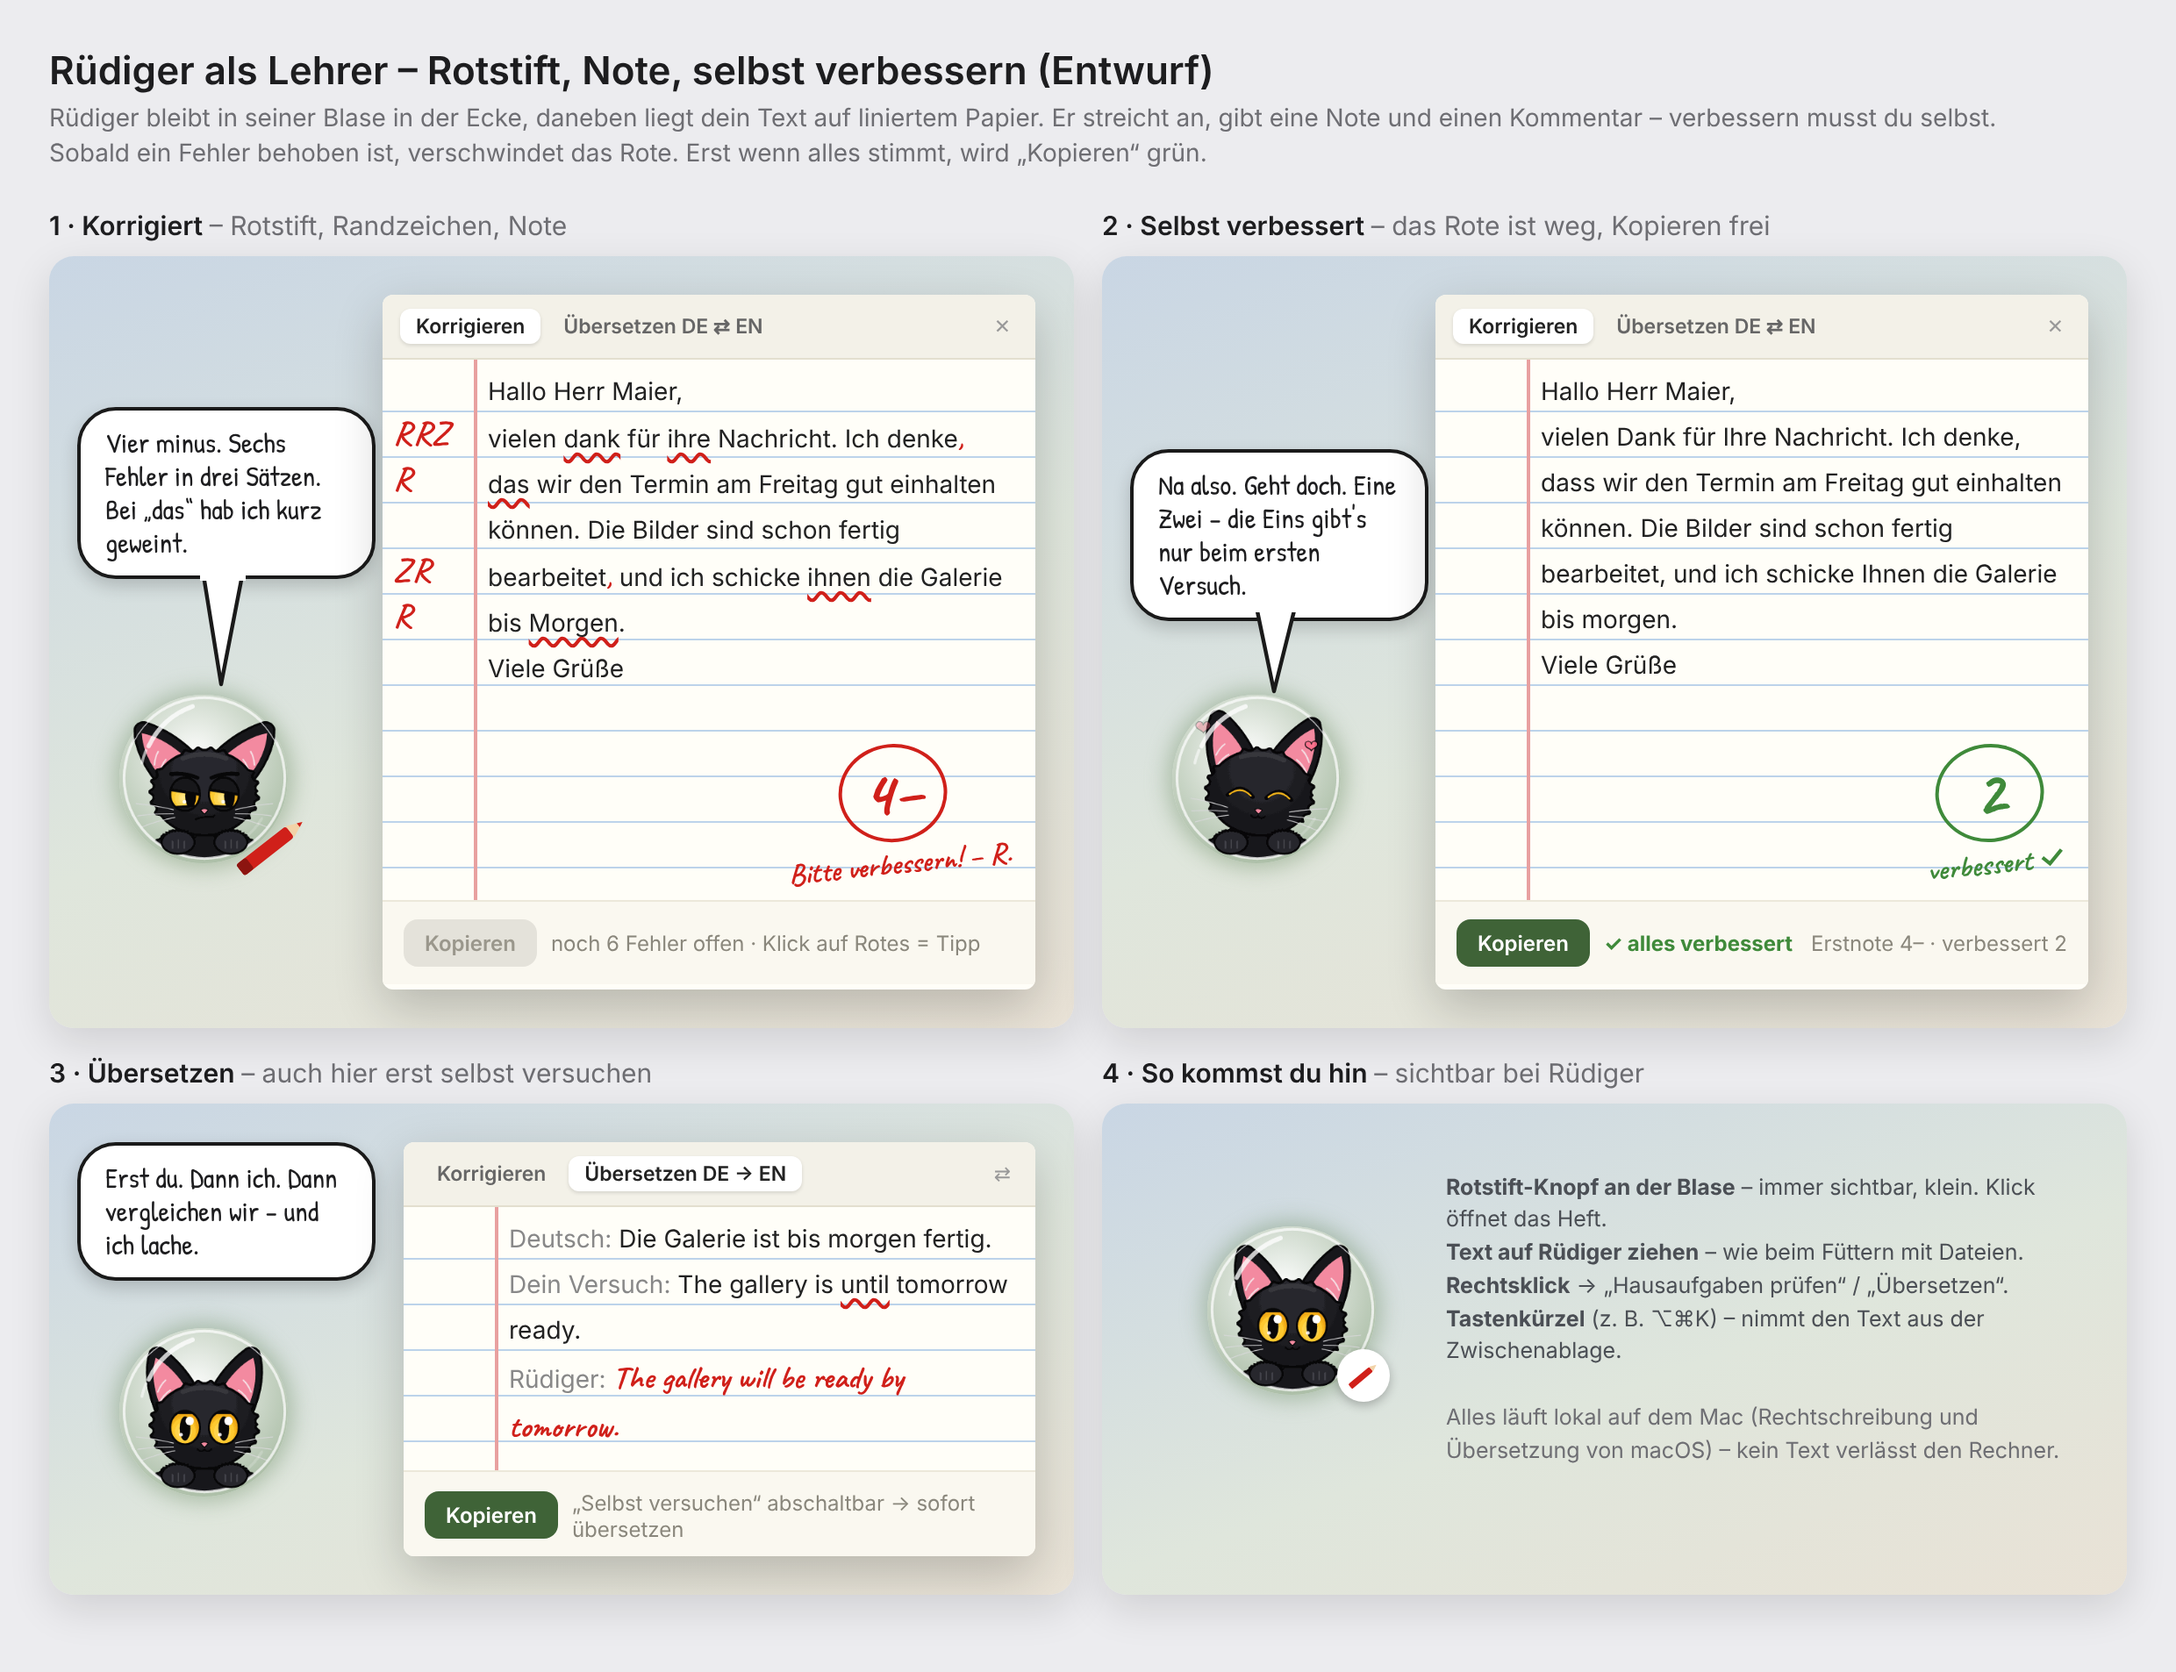
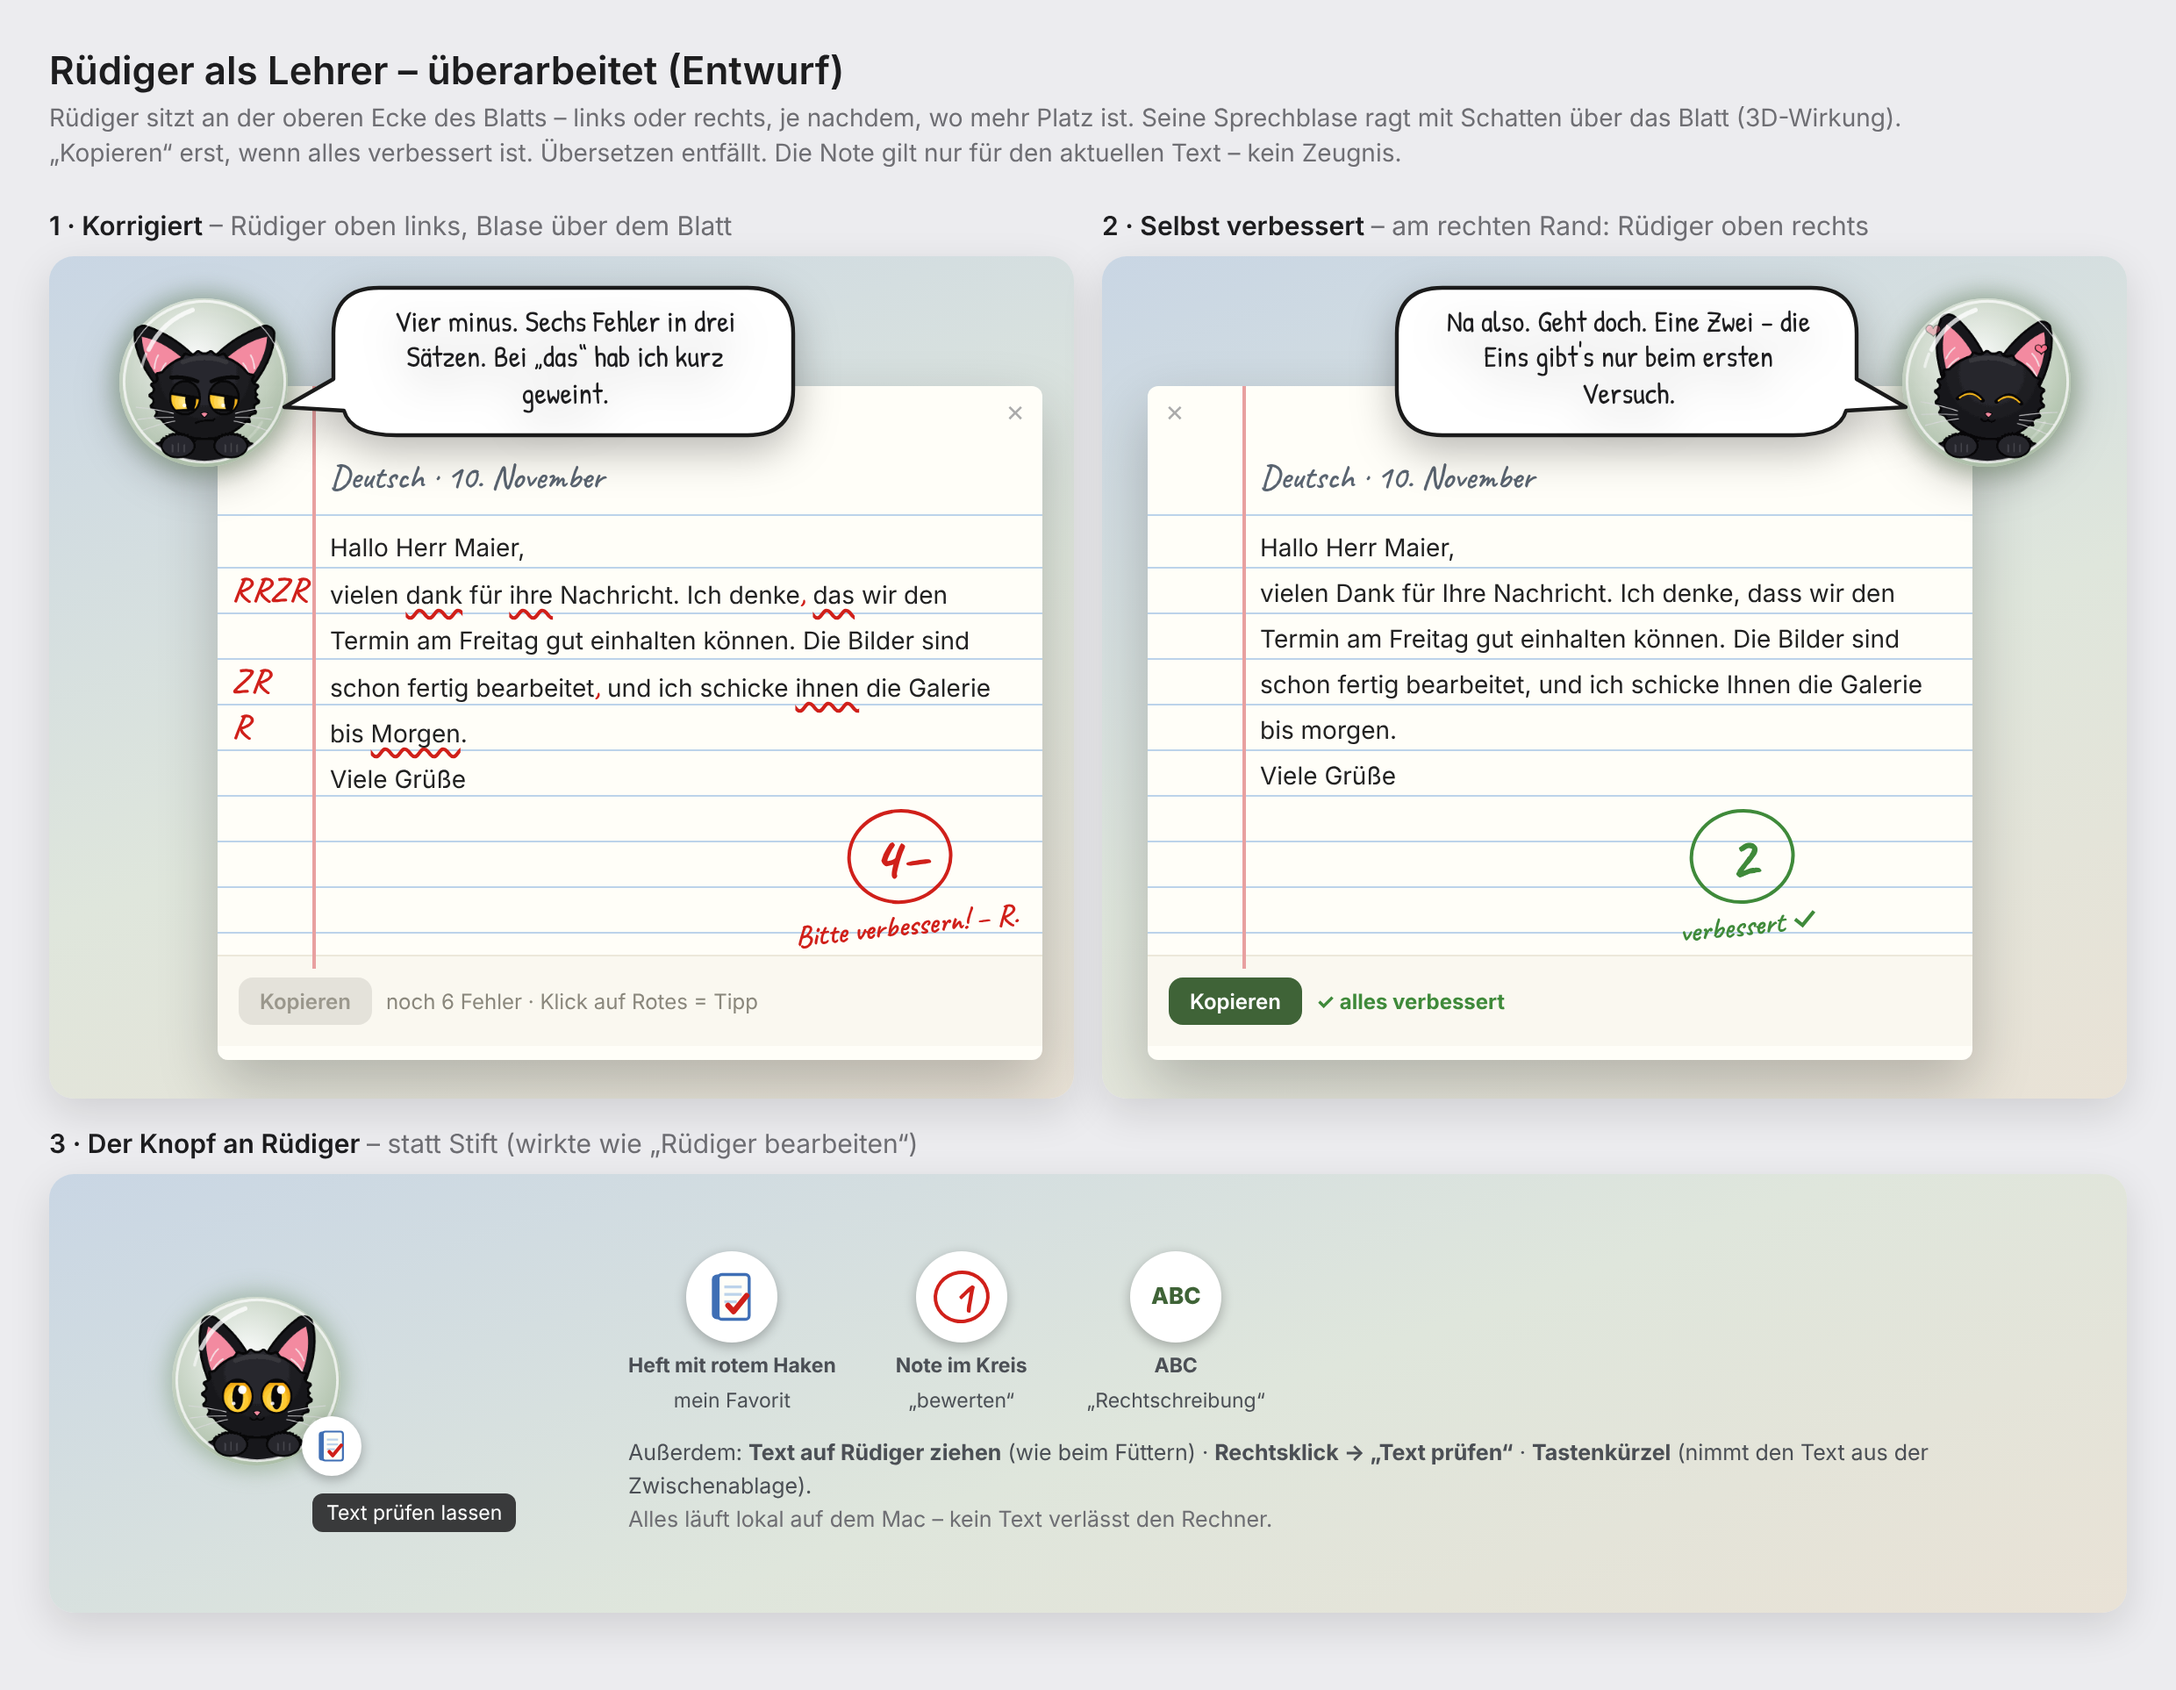
Stromsparen: bei Sperre, Bildschirmschoner, schlafenden Displays oder Benutzerwechsel pausieren
Mausabfrage, Rüdigers Animation und sein Denken ruhen, solange niemand hinsieht.
Der Zustand wird zusätzlich alle 2 s direkt abgefragt, damit danach sicher alles
wieder anläuft; beim Fortsetzen wird die Sidebar frisch eingerichtet.
Schlafender Rüdiger animiert mit 12 statt 30 Bildern pro Sekunde.
Dazu: überarbeiteter Entwurf „Rüdiger als Lehrer“.

Claude-Session: https://claude.ai/code/session_013QMysoChKZtt2jQjfdud1W

diff --git a/Sources/Sidebar/Power.swift b/Sources/Sidebar/Power.swift
@@ -1,0 +1,80 @@
+import AppKit
+import Combine
+import CoreGraphics
+
+// MARK: - Stromsparen
+//
+// Bildschirm gesperrt, Bildschirmschoner läuft, Displays schlafen oder ein anderer Benutzer ist angemeldet:
+// Dann sieht niemand die Sidebar – Mausabfrage, Rüdigers Animation und sein „Denken“ pausieren.
+//
+// Damit danach sicher alles wieder anläuft, wird der Zustand nicht nur aus Meldungen von macOS abgeleitet
+// (die können verloren gehen), sondern alle 2 Sekunden direkt nachgefragt. Fällt eine Meldung aus,
+// läuft spätestens nach 2 Sekunden wieder alles.
+
+@MainActor
+final class PowerState: ObservableObject {
+    static let shared = PowerState()
+
+    /// gerade sieht niemand den Bildschirm → Arbeit ruht
+    @Published private(set) var paused = false
+
+    private var timer: Timer?
+    private var observers: [(NotificationCenter, NSObjectProtocol)] = []
+
+    private init() {}
+
+    func start() {
+        guard timer == nil else { return }
+        let workspace = NSWorkspace.shared.notificationCenter
+        let names: [Notification.Name] = [
+            NSWorkspace.screensDidSleepNotification, NSWorkspace.screensDidWakeNotification,
+            NSWorkspace.didWakeNotification,
+            NSWorkspace.sessionDidResignActiveNotification, NSWorkspace.sessionDidBecomeActiveNotification,
+        ]
+        for name in names {
+            let token = workspace.addObserver(forName: name, object: nil, queue: .main) { [weak self] _ in
+                MainActor.assumeIsolated { self?.refresh() }
+            }
+            observers.append((workspace, token))
+        }
+        let distributed = DistributedNotificationCenter.default()
+        for name in ["com.apple.screensaver.didstart", "com.apple.screensaver.didstop",
+                     "com.apple.screenIsLocked", "com.apple.screenIsUnlocked"] {
+            let token = distributed.addObserver(forName: Notification.Name(name), object: nil, queue: .main) { [weak self] _ in
+                // Die Meldung kommt manchmal minimal vor dem neuen Zustand – kurz danach noch einmal prüfen
+                MainActor.assumeIsolated {
+                    self?.refresh()
+                    DispatchQueue.main.asyncAfter(deadline: .now() + 0.6) { self?.refresh() }
+                }
+            }
+            observers.append((distributed, token))
+        }
+        // Sicherheitsnetz: regelmäßig selbst nachsehen
+        let timer = Timer(timeInterval: 2, repeats: true) { [weak self] _ in
+            MainActor.assumeIsolated { self?.refresh() }
+        }
+        RunLoop.main.add(timer, forMode: .common)
+        self.timer = timer
+        refresh()
+    }
+
+    func refresh() {
+        let now = Self.nobodyWatching()
+        if paused != now { paused = now }
+    }
+
+    private static func nobodyWatching() -> Bool {
+        var locked = false
+        var onConsole = true
+        if let session = CGSessionCopyCurrentDictionary() as? [String: Any] {
+            locked = (session["CGSSessionScreenIsLocked"] as? NSNumber)?.boolValue ?? false
+            onConsole = (session[kCGSessionOnConsoleKey as String] as? NSNumber)?.boolValue ?? true
+        }
+        // Alle Bildschirme schlafen (bei einem einzelnen wachen Bildschirm läuft alles weiter)
+        let displays = NSScreen.screens.compactMap(\.displayID)
+        let displaysAsleep = !displays.isEmpty && displays.allSatisfy { CGDisplayIsAsleep($0) != 0 }
+        let screensaver = NSWorkspace.shared.runningApplications
+            .contains { $0.bundleIdentifier == "com.apple.ScreenSaver.Engine" }
+        return locked || !onConsole || displaysAsleep || screensaver
+    }
+}

diff --git a/Sources/Sidebar/CatBrain.swift b/Sources/Sidebar/CatBrain.swift
@@ -382,7 +382,8 @@ final class CatBrain: ObservableObject {
     }
 
     private func tick() {
-        guard settings.catEnabled else { return }
+        // gesperrt / Bildschirmschoner: Rüdiger denkt nicht (Feierabend-Wecker usw. holt er danach nach)
+        guard settings.catEnabled, !PowerState.shared.paused else { return }
         let now = Date()
 
         // Auftritt: beim Winken begrüßt er dich
@@ -634,6 +635,7 @@ struct CatView: View {
     /// nur schwebend: Menüpunkt „Zurück in die Sidebar“
     var onReturnToDock: (() -> Void)?
     @ObservedObject private var brain = CatBrain.shared
+    @ObservedObject private var power = PowerState.shared
     @State private var dropTargeted = false
     @State private var squash = false
     @Environment(\.colorScheme) private var scheme
@@ -649,7 +651,9 @@ struct CatView: View {
             Circle().fill(Color.white.opacity(dark ? 0.08 : 0.88))
             Circle().fill(RadialGradient(colors: [Color.white.opacity(dark ? 0.12 : 0.5), palette.accent.opacity(dark ? 0.5 : 0.55)],
                                          center: UnitPoint(x: 0.45, y: 0.36), startRadius: 2, endRadius: 60))
-            TimelineView(.animation(minimumInterval: 1.0 / 30.0)) { timeline in
+            // Schläft er, reichen 12 Bilder pro Sekunde; sieht niemand hin, steht die Animation still
+            TimelineView(.animation(minimumInterval: (brain.snoozed || brain.mood == .sleeping) ? 1.0 / 12.0 : 1.0 / 30.0,
+                                    paused: power.paused)) { timeline in
                 let pose = brain.pose(at: timeline.date)
                 if let name = pose.sprite, let image = CatSprites.shared.frame(name, pose: pose, at: timeline.date) {
                     // Das Bild ist etwas größer als die Blase, damit Ohrenspitzen herausragen können

diff --git a/Sources/Sidebar/SidebarController.swift b/Sources/Sidebar/SidebarController.swift
@@ -195,6 +195,29 @@ final class SidebarController {
             }
             .store(in: &cancellables)
 
+        // Stromsparen: beim Pausieren offene Einblendungen schließen, danach alles frisch einrichten
+        PowerState.shared.$paused
+            .removeDuplicates()
+            .dropFirst()
+            .receive(on: RunLoop.main)
+            .sink { [weak self] paused in
+                MainActor.assumeIsolated {
+                    guard let self else { return }
+                    if paused {
+                        self.hideFlyout()
+                        self.updateHovered(nil)
+                        self.updateLabel(nil)
+                        self.updatePreview(nil, now: Date())
+                    } else {
+                        self.barEnteredAt = nil
+                        self.barLeftAt = nil
+                        self.applySettings(self.store.config.settings)
+                        if self.isVisible { self.panel.orderFrontRegardless() }
+                    }
+                }
+            }
+            .store(in: &cancellables)
+
         // Monitor angeschlossen/entfernt, Auflösung oder Dock geändert
         NotificationCenter.default.publisher(for: NSApplication.didChangeScreenParametersNotification)
             .receive(on: RunLoop.main)
@@ -279,6 +302,8 @@ final class SidebarController {
     }
 
     private func tick() {
+        // Niemand sieht hin (gesperrt, Bildschirmschoner, Displays aus) → nichts tun
+        if PowerState.shared.paused { return }
         // Schwebender Rüdiger: sichtbar, solange die Sidebar läuft – auch wenn sie eingefahren ist
         FloatingCat.shared.update(sidebarVisible: isVisible)
         guard isVisible, !isDragging else {

diff --git a/Sources/Sidebar/App.swift b/Sources/Sidebar/App.swift
@@ -89,6 +89,8 @@ final class AppDelegate: NSObject, NSApplicationDelegate, NSMenuDelegate {
         // Rüdiger: Namen der Apps und Platz auf dem Bildschirm
         CatBrain.shared.store = store
         CatBrain.shared.locate = { [weak self] in self?.sidebar?.catLocation() }
+        // Gesperrt / Bildschirmschoner / Displays aus → pausieren, danach automatisch weiter
+        PowerState.shared.start()
         setupStatusItem()
 
         Updater.shared.startAutomaticChecks { [weak self] in
